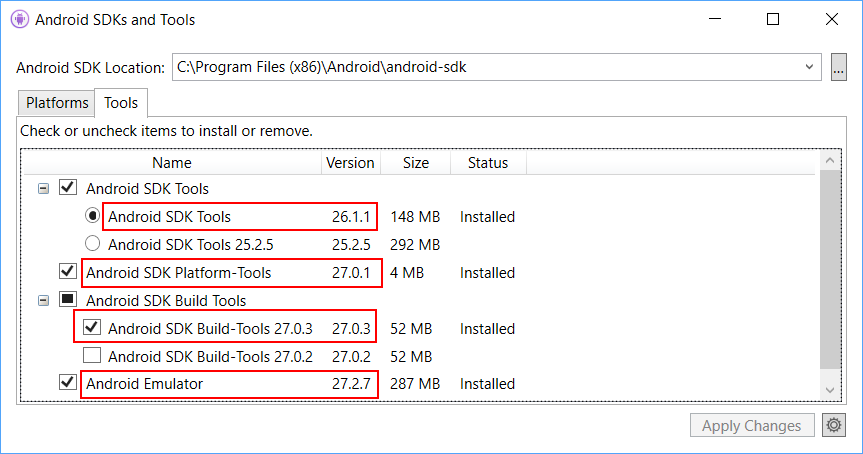
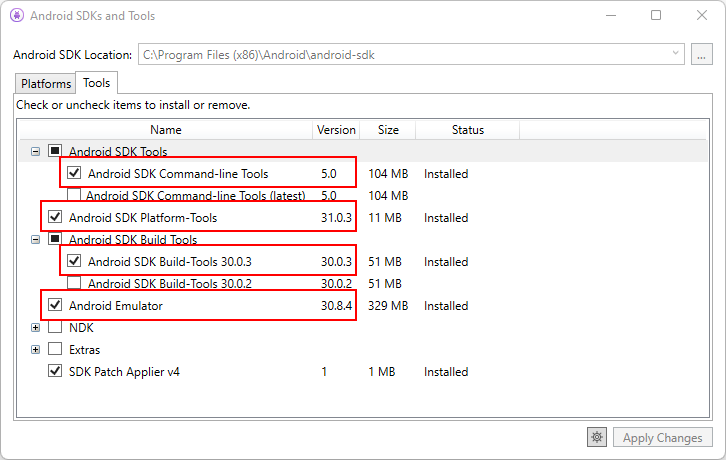
feedback and more

diff --git a/docs/android/emulator/troubleshooting.md b/docs/android/emulator/troubleshooting.md
@@ -1,6 +1,6 @@
 ---
 title: "Android Emulator Troubleshooting"
-description: "This article explains how to diagnose and work around problems that may occur when using the Android Emulator."
+description: "This article explains how to diagnose and work around problems that may occur when using the Android Emulator to deploy and run your .NET MAUI app."
 zone_pivot_groups: platform
 ms.date: 12/03/2021
 ---
@@ -44,14 +44,12 @@ If you see an error about a failure to install the APK on the emulator or a fail
 
 If the message **An MMIO access error has occurred** is displayed, restart the emulator.
 
-<a name="gps-win"></a>
-
 ## Missing Google Play Services
 
 If the emulated Android device doesn't have Google Play Services or Google Play Store installed, you probably created a virtual device that excluded these packages. When you [create a virtual device](device-manager.md), be sure to select one or both of the following options:
 
-- **Google APIs** &ndash; includes Google Play Services in the virtual device.
-- **Google Play Store** &ndash; includes Google Play Store in the virtual device.
+- **Google APIs**&mdash;includes Google Play Services in the virtual device.
+- **Google Play Store**&ndash;includes Google Play Store in the virtual device.
 
 For example, this virtual device will include Google Play Services and Google Play Store:
 
@@ -210,15 +208,13 @@ SERVICE_NAME: intelhaxm
 
 If `STATE` isn't set to `RUNNING`, see [How to Use the Intel Hardware Accelerated Execution Manager](https://software.intel.com/android/articles/how-to-use-the-intel-hardware-accelerated-execution-manager-intel-haxm-android-emulator) to resolve the problem.
 
-<a name="virt-conflicts"></a>
-
 #### HAXM virtualization conflicts
 
 HAXM can conflict with other technologies that use virtualization, such as Hyper-V, Windows Device Guard, and some antivirus software:
 
-- **Hyper-V** &ndash; If you're using a version of Windows before the **Windows 10 April 2018 update (build 1803)** and Hyper-V is enabled, follow the steps in [Disabling Hyper-V](#disable-hyperv) so that HAXM can be enabled.
+- **Hyper-V** &ndash; If you're using a version of Windows before the **Windows 10 April 2018 update (build 1803)** and Hyper-V is enabled, follow the steps in [Disabling Hyper-V](#disabling-hyper-v) so that HAXM can be enabled.
 
-- **Device Guard** &ndash; Device Guard and Credential Guard can prevent Hyper-V from being disabled on Windows machines. To disable Device Guard and Credential Guard, see [Disabling Device Guard](#disable-devguard).
+- **Device Guard** &ndash; Device Guard and Credential Guard can prevent Hyper-V from being disabled on Windows machines. To disable Device Guard and Credential Guard, see [Disabling Device Guard](#disabling-device-guard).
 
 - **Antivirus Software** &ndash; If you're running antivirus software that uses hardware-assisted virtualization (such as Avast), disable or uninstall this software, reboot, and retry the Android emulator.
 
@@ -373,8 +369,6 @@ If you see an error about a failure to install the APK on the emulator or a fail
 
 If `An MMIO access error has occurred` is displayed, restart the emulator.
 
-<a name="gps-mac"></a>
-
 ## Missing Google Play Services
 
 If the virtual device you're running in the emulator doesn't have Google Play Services or Google Play Store installed, this condition is usually caused by creating a virtual device without including these packages. When you [create a virtual device](device-manager.md), be sure to select one or both of the following:
@@ -388,8 +382,6 @@ For example, this virtual device will include Google Play Services and Google Pl
 
 > [!NOTE]
 > Google Play Store images are available only for some base device types such as Pixel, Pixel 2, Nexus 5, and Nexus 5X.
-
-<a name="perf-mac"></a>
 
 ## Performance issues
 
@@ -410,13 +402,9 @@ A common cause for this problem isn't using an x86-based image in your virtual d
 
 [![Selecting an x86 system image for a virtual device.](troubleshooting-images/mac/02-x86-virtual-device-m75-sml.png)](troubleshooting-images/mac/02-x86-virtual-device-m75.png#lightbox)
 
-<a name="accel-issues-mac"></a>
-
 ## Hardware acceleration issues
 
 Whether you're using the Hypervisor Framework or HAXM for hardware acceleration of the emulator, you may run into problems caused by installation issues or an out-of-date version of macOS. The following sections can help you resolve this issue.
-
-<a name="hypervisor-issues"></a>
 
 ### Hypervisor Framework issues
 

diff --git a/docs/android/emulator/device-manager.md b/docs/android/emulator/device-manager.md
@@ -1,7 +1,6 @@
 ---
 title: "Managing Virtual Devices with the Android Device Manager"
 description: "This article explains how to use the Android Device Manager to create and configure Android Virtual Devices (AVDs) that emulate physical Android devices, for .NET MAUI. You can use these virtual devices to run and test your app without having to rely on a physical device"
-ms.custom: video
 ms.date: 11/18/2021
 no-loc: ["user.config"]
 ---
@@ -27,16 +26,16 @@ You use the Android Device Manager to create and configure an Android Virtual De
 
 To use the Android Device Manager, you'll need the following items:
 
-- Visual Studio 2022 version 17.1 Preview 1. Visual Studio Community, Professional, and Enterprise editions are supported.
+- Visual Studio 2022 version 17.1 Preview 3. Visual Studio Community, Professional, and Enterprise editions are supported.
 
-- The Android SDK. Be sure to install the Android SDK at its default location if it isn't already installed: _C:\\Program Files (x86)\\Android\\android-sdk_.
+- The **Android SDK API Level 30** or later. Be sure to install the Android SDK at its default location if it isn't already installed: _C:\\Program Files (x86)\\Android\\android-sdk_.
 
 - The following packages must be installed in the:
 
-  - **Android SDK Tools version 26.1.1** or later
-  - **Android SDK Platform-Tools 27.0.1** or later
-  - **Android SDK Build-Tools 27.0.3** or later
-  - **Android Emulator 27.2.7** or later
+  - **Android SDK Tools 5.0** or later
+  - **Android SDK Platform-Tools 31.0.3** or later
+  - **Android SDK Build-Tools 30.0.2** or later
+  - **Android Emulator 30.8.4** or later
 
   These packages should be displayed with **Installed** status as seen in the following screenshot:
 
@@ -152,6 +151,8 @@ The additional options menu contains the following items:
 
 The following sections explain how to diagnose and work around problems that may occur when using the Android Device Manager to configure virtual devices.
 
+<!-- uncomment if applicable later
+
 ### Android SDK in non-standard location
 
 Typically, the Android SDK is installed at _C:\\Program Files (x86)\\Android\\android-sdk_. If the SDK isn't installed at this location, you may get this error when you launch the Android Device Manager:
@@ -172,13 +173,15 @@ To work around this problem, do the following:
 
 01. In _user.config_, find the `<UserSettings>` element and add an **AndroidSdkPath** attribute to it. Set this attribute to the path where the Android SDK is installed on your computer and save the file. For example, `<UserSettings>` would look like the following if the Android SDK was installed at _C:\\Programs\\Android\\SDK_:
 
-    <!-- TODO: Does visual studio handle this some how now? -->
+    TODO: Does visual studio handle this some how now?
 
     ```xml
     <UserSettings SdkLibLastWriteTimeUtcTicks="636409365200000000" AndroidSdkPath="C:\Programs\Android\SDK" />
     ```
 
 After making this change to **user.config**, you should be able to launch the Android Device Manager.
+
+-->
 
 ### Wrong version of Android SDK Tools
 
@@ -425,10 +428,3 @@ After these changes are made, the AVD will restart in a state that allows Wi-Fi 
 ::: zone-end
 
 -->
-
-## Related links
-
-- [Debug on the Android Emulator](../deployment/debug-on-emulator.md)
-- [SDK Tools Release Notes (Google)](https://developer.android.com/studio/releases/sdk-tools)
-- [avdmanager](https://developer.android.com/studio/command-line/avdmanager.html)
-- [sdkmanager](https://developer.android.com/studio/command-line/sdkmanager.html)

diff --git a/docs/android/emulator/hardware-acceleration.md b/docs/android/emulator/hardware-acceleration.md
@@ -11,7 +11,6 @@ This article explains how to use your computer's hardware acceleration features 
 With Visual Studio, you can easily test and debug your .NET MAUI app for Android in situations where an Android device isn't available. However, if hardware acceleration isn't available or enabled, the emulator will run too slow. You can drastically improve the performance of the emulator by enabling hardware acceleration and using special x86 virtual device images.
 
 <!-- TODO: What are the virtualization extensions on the new M1 ARM processors for Mac?
-           Also, isn't Hypervisor.Framework a macOS-only tech? Why is this at the start?
 -->
 
 | Scenario                                  | HAXM        | WHPX    | Hypervisor.Framework |
@@ -48,8 +47,6 @@ For the best experience on Windows, it's recommended you use WHPX to accelerate 
 > You can't run a VM-accelerated emulator inside another VM, such as a VM hosted by VirtualBox, VMware, or Docker (unless using WSL2). You must run the Android emulator [directly on your system hardware](https://developer.android.com/studio/run/emulator-acceleration.html#extensions).
 
 For information about launching and debugging with the Android emulator, see [Debugging on the Android Emulator](../deployment/debug-on-emulator.md).
-
-<a name="hyper-v-win"></a>
 
 ## Accelerating with Hyper-V
 
@@ -124,8 +121,6 @@ To determine if your hardware supports HAXM, follow the steps in [Does My Proces
 
 If your computer can support HAXM but HAXM isn't installed, use the steps in the next section to install HAXM.
 
-<a name="install-haxm-win"></a>
-
 ### Installing HAXM
 
 HAXM install packages for Windows are available from the [Intel Hardware Accelerated Execution Manager](https://github.com/intel/haxm/releases) GitHub releases page. Use the following steps to download and install HAXM:
@@ -167,8 +162,6 @@ It is recommended that you use the Hypervisor Framework to accelerate the Androi
 
 For information about launching and debugging with the Android emulator, see [Debugging on the Android Emulator](~/android/deploy-test/debugging/debug-on-emulator.md).
 
-<a name="hypervisor"></a>
-
 ## Accelerating with the Hypervisor Framework
 
 To use the Android emulator with the Hypervisor Framework, your Mac must meet the following criteria:
@@ -180,8 +173,6 @@ To use the Android emulator with the Hypervisor Framework, your Mac must meet th
 If your Mac meets these criteria, the Android emulator will automatically use the Hypervisor Framework for acceleration. If you aren't sure if Hypervisor Framework is supported on your Mac, see the [Troubleshooting guide](troubleshooting.md?tabs=vsmac#hypervisor-issues) for ways to verify that your Mac supports Hypervisor.
 
 If the Hypervisor Framework isn't supported by your Mac, you can use HAXM to accelerate the Android emulator (described next).
-
-<a name="haxm-mac"></a>
 
 ## Accelerating with HAXM
 
@@ -210,8 +201,6 @@ You can check to see if HAXM is already installed by using the following steps:
     > HAXM is not installed on this machine (/dev/HAX is missing).
 
 If HAXM isn't installed, use the steps in the next section to install HAXM.
-
-<a name="install-haxm-mac"></a>
 
 ### Installing HAXM
 

diff --git a/docs/android/emulator/index.md b/docs/android/emulator/index.md
@@ -22,14 +22,8 @@ The following articles are available to help manage and setup your Android emula
 
   How to use the Android Device Manager to edit the profile properties of a virtual device.
 
-<!--
-
-TODO: Still being ported
-
 - [Android Emulator Troubleshooting](troubleshooting.md)
 
   In this article, the most common warning messages and issues that occur while running the Android Emulator are described, along with workarounds and tips.
 
 After you have configured the Android Emulator, see [Debugging on the Android Emulator](~/android/deploy-test/debugging/debug-on-emulator.md) for information about how to launch the emulator and use it for testing and debugging your app.
-
--->
